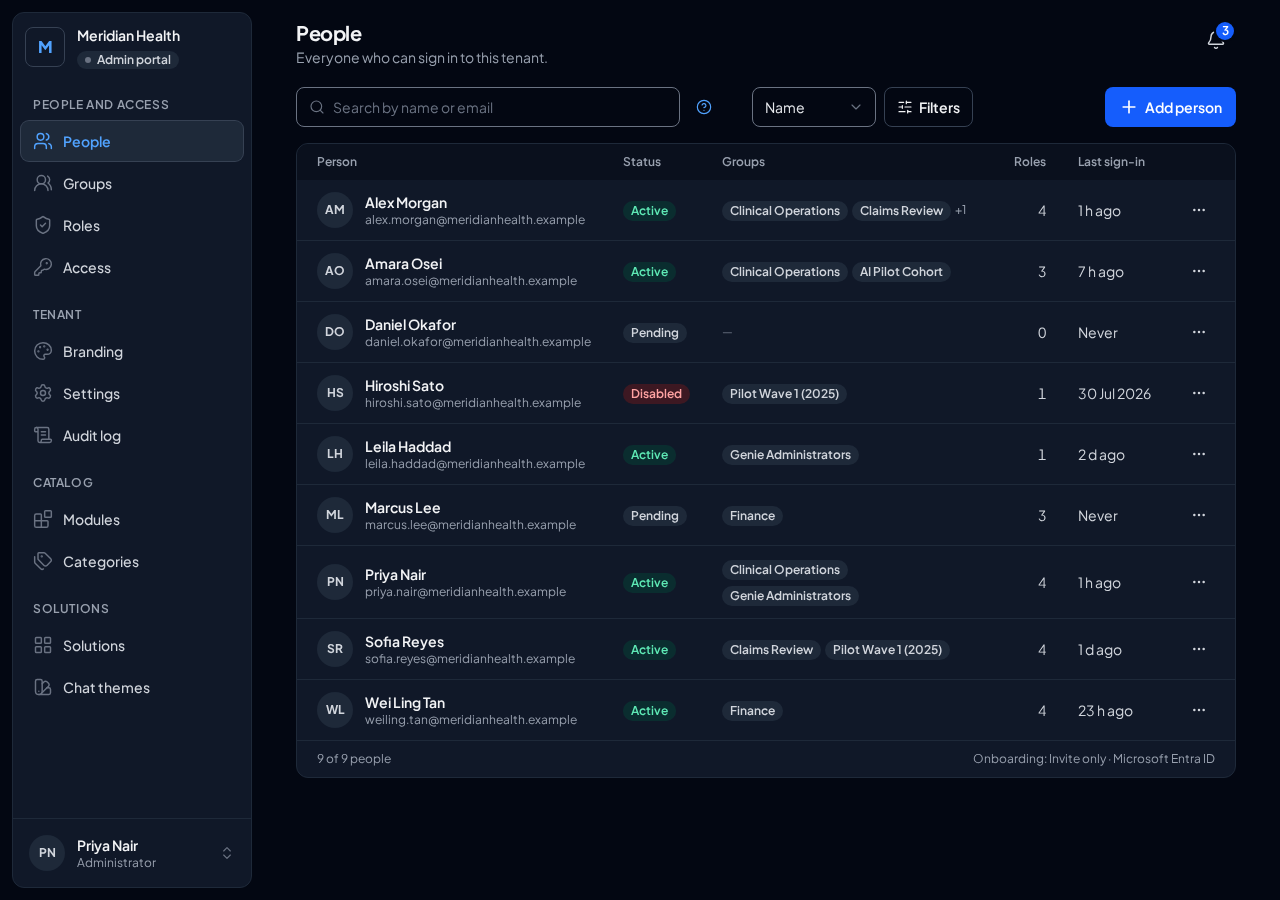
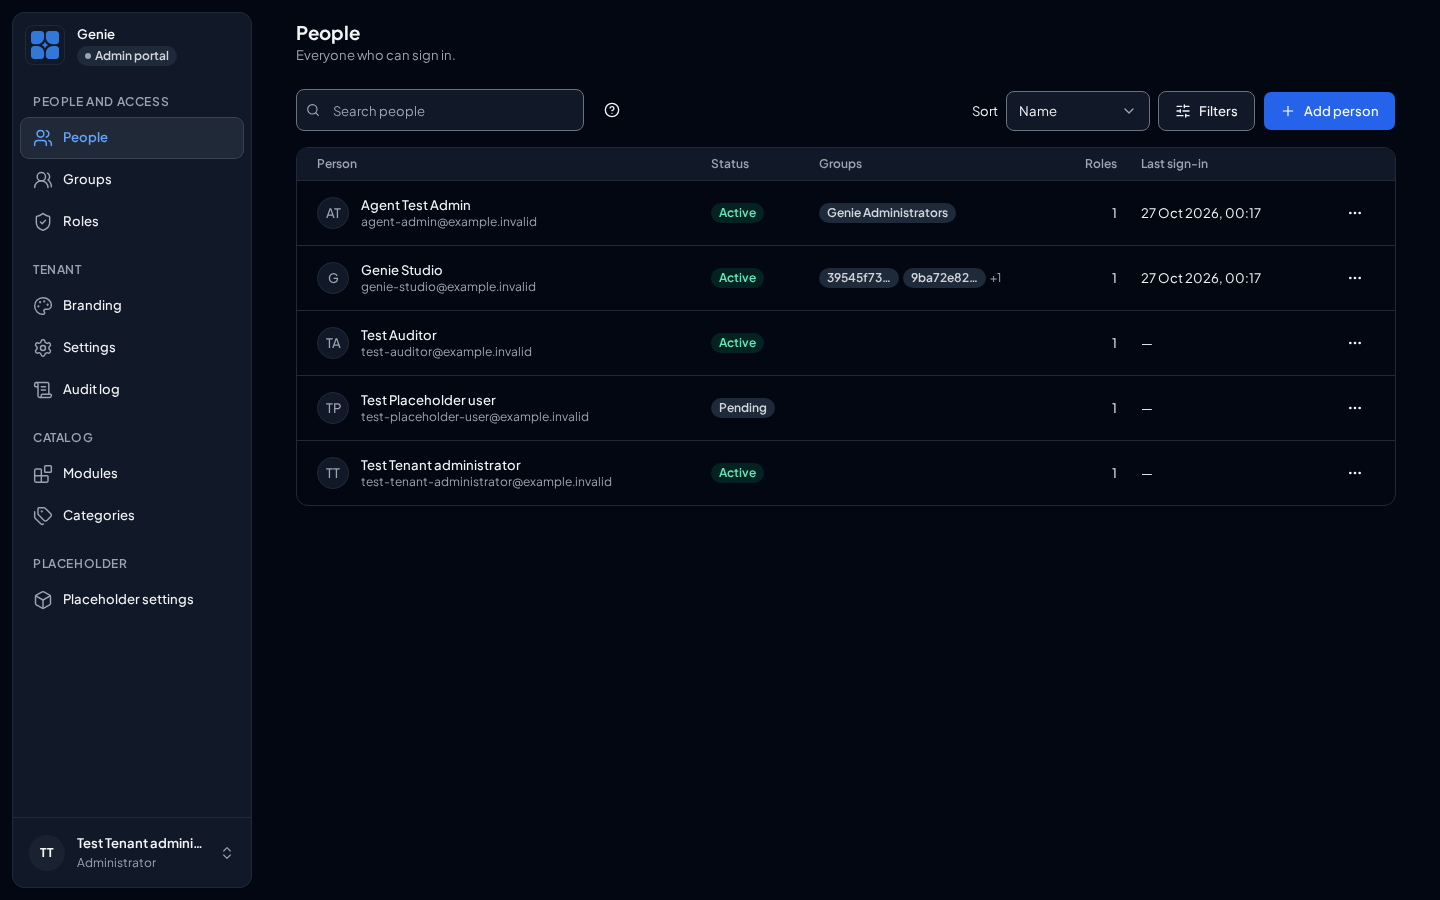
docs(design): import the dark People table capture
The owner kept the build's dark table band (L273), so the capture that drew body rows on the card color is replaced with one of the build. Workspace commit 6ec9dff.

diff --git a/docs/design/README.md b/docs/design/README.md
@@ -12,7 +12,7 @@ Standing check: a field in a `types.ts` that has no column in `../architecture/d
 
 Ownership: the design authoring workspace is `/home/kenan/work/genie-ops-center-design`; this tree is the imported reference used by the v2 repository. Each section folder holds its specification, `types.ts`, `data.json`, and captures; `reference/` holds screen components as visual evidence (see `reference/README.md`); `design-system/tokens.md` and `shell/spec.md` hold the imported token layer and shell. Importing a design does not approve changes to platform behavior, data shape, module contracts or roadmap scope. Conflicts require explicit reconciliation with the canonical platform decisions and specifications. The [2026-09-19 import record](imports/2026-09-19.md) records provenance, known stale captures and review status. A capture is one historical state, not proof of current behavior; do not choose authority merely by file modification time. Inspect current source and its governing contract, and report disagreements rather than silently promoting screenshots or prototype callbacks into requirements.
 
-Latest snapshot: [2026-09-19 synchronized design bundle](imports/2026-09-19-latest.md), with per-file before/import hashes and remaining review limitations. This supersedes the earlier import status linked above. The snapshot does not approve open product decisions or certify capture freshness; no recoverable pre-import backup is claimed. The [2026-10-22 import](imports/2026-10-22-notifications.md) updates the shell, the account-and-inbox section, and the captures for the Notifications page and the header bell. The [2026-10-28 import](imports/2026-10-28-batch-5-rules.md) updates the tokens, the shell spec, and the sign-in section with the batch 5 design rules. The [2026-10-28 drop zone import](imports/2026-10-28-drop-zone-captures.md) replaces the Branding Identity captures with the build's drop zone. The [2026-10-28 Modules phone import](imports/2026-10-28-modules-phone-capture.md) replaces the Modules phone capture with the build.
+Latest snapshot: [2026-09-19 synchronized design bundle](imports/2026-09-19-latest.md), with per-file before/import hashes and remaining review limitations. This supersedes the earlier import status linked above. The snapshot does not approve open product decisions or certify capture freshness; no recoverable pre-import backup is claimed. The [2026-10-22 import](imports/2026-10-22-notifications.md) updates the shell, the account-and-inbox section, and the captures for the Notifications page and the header bell. The [2026-10-28 import](imports/2026-10-28-batch-5-rules.md) updates the tokens, the shell spec, and the sign-in section with the batch 5 design rules. The [2026-10-28 drop zone import](imports/2026-10-28-drop-zone-captures.md) replaces the Branding Identity captures with the build's drop zone. The [2026-10-28 Modules phone import](imports/2026-10-28-modules-phone-capture.md) replaces the Modules phone capture with the build. The [2026-10-28 dark People import](imports/2026-10-28-people-dark-capture.md) replaces the dark People table capture with the build.
 
 Design rounds and the core section each one serves. The rounds carry no numbering of their own.
 

diff --git a/docs/design/imports/2026-10-28-people-dark-capture.md b/docs/design/imports/2026-10-28-people-dark-capture.md
@@ -1,0 +1,24 @@
+# Design import, 2026-10-28: the dark People table capture
+
+Status: imported reference snapshot. It is not blanket design approval.
+
+## Owner decision
+
+The batch 5 fix list, item L273 (owner, 2026-10-27): in dark, the build puts the table body rows on the page color (`--background`, gray-950) and the header row on the lighter `--muted` band (gray-900). The old capture drew the body rows on the card color. The owner chose the build, and `tokens.md` "Tables and card lists" records the rule (import `2026-10-28-batch-5-rules.md`). This import replaces the capture with one of the build.
+
+## Source and method
+
+Source: `/home/kenan/work/genie-ops-center-design`, branch `chore/product-baseline`, commit `6ec9dff` (`docs(product): capture the dark People table from the build`). The mapping is `product/<path>` to `docs/design/<path>`. The workspace still holds uncommitted files under `src/` and elsewhere. This import does not take them.
+
+The capture comes from the running build (the dev app of the batch 5 worktree at `da90b436`, `/admin/people`, dark theme, signed in as the Tenant administrator test person), not from the workspace preview app. It is 1440 x 900, the sweep's desktop size. The old capture was 1280 x 900.
+
+| File | Size | SHA-256 of the imported file |
+| --- | --- | --- |
[1 lines of base64/hex data omitted]
+
+## Limitations
+
+- The development tenant has five people, so the capture shows five rows. The old capture showed nine sample people.
+- One development person signed in with a real mailbox. The capture shows that person as "Genie Studio" and `genie-studio@example.invalid`, replaced in the page before the shot. No other text changed.
+- That person's groups show as cut ids, because the development database names those groups by id.
+- The light and phone People captures did not change. The phase 08 sweep fixed them in the build and listed the rest.

diff --git a/docs/design/CHANGELOG.md b/docs/design/CHANGELOG.md
@@ -4,6 +4,11 @@ One entry per design change in this repository, newest first. Each entry names w
 
 ## 2026-10-28
 
+### Changed, the dark People table capture
+
+- The dark People table capture now comes from the build, which follows the `tokens.md` dark table rule: the body rows sit on the page color and the header row on the lighter `--muted` band (owner, 2026-10-27, L273).
+- File: `product/sections/people-groups-and-roles/people-directory-dark.png`. Record: `imports/2026-10-28-people-dark-capture.md`.
+
 ### Changed, the sign-in and break-glass captures
 
 - The 29 sign-in and break-glass captures now come from the build, which follows direction D2: one centered 320px stack with the tenant mark, the heading, the notice and full-width buttons, and no card (owner, 2026-10-27). The sign-in buttons are 40px on desktop and 44px under 1024px.
